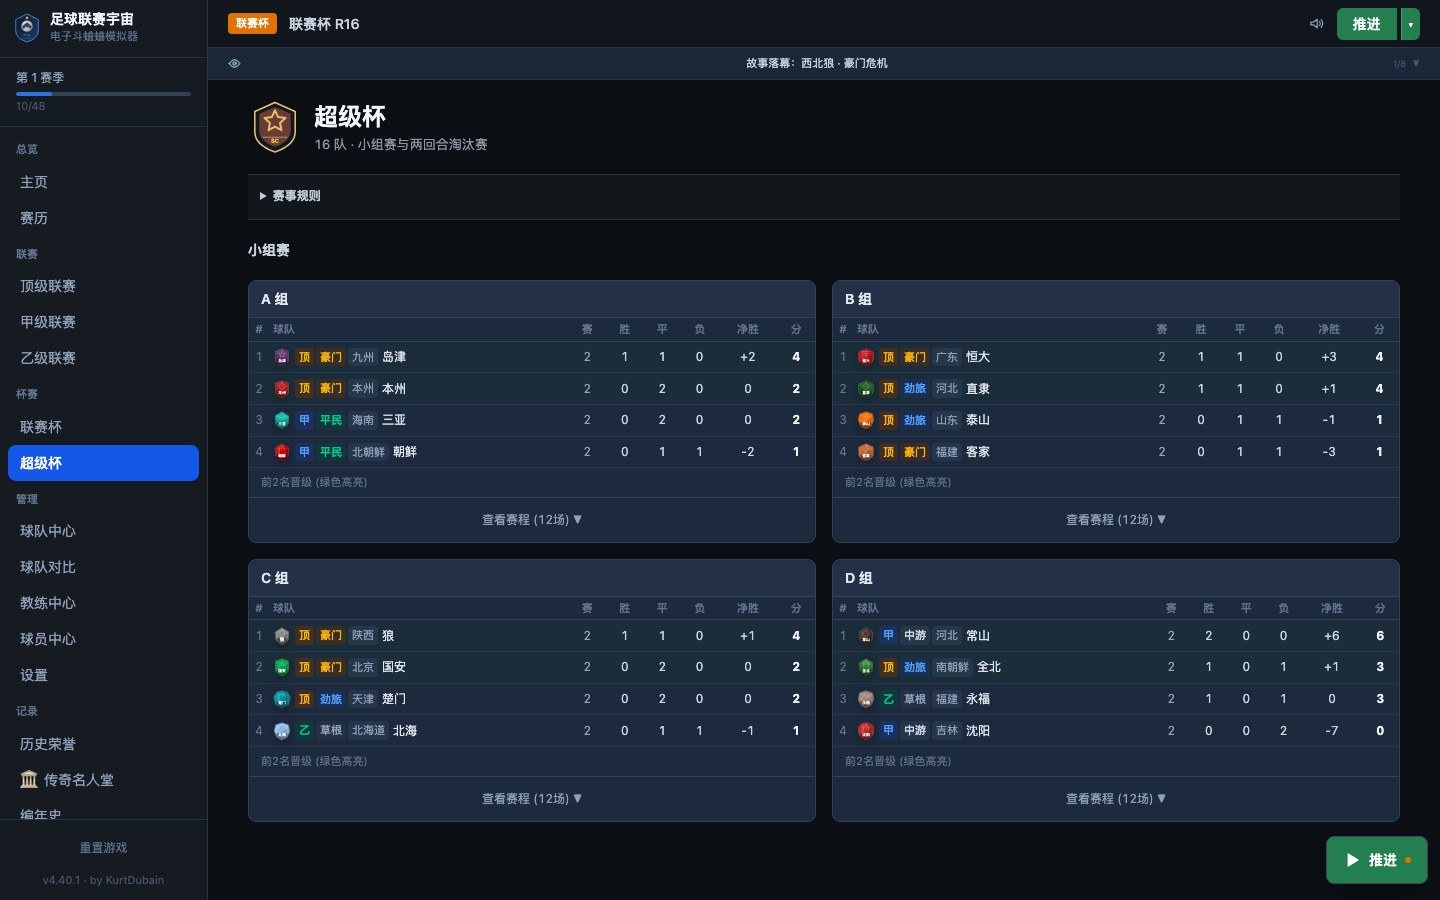
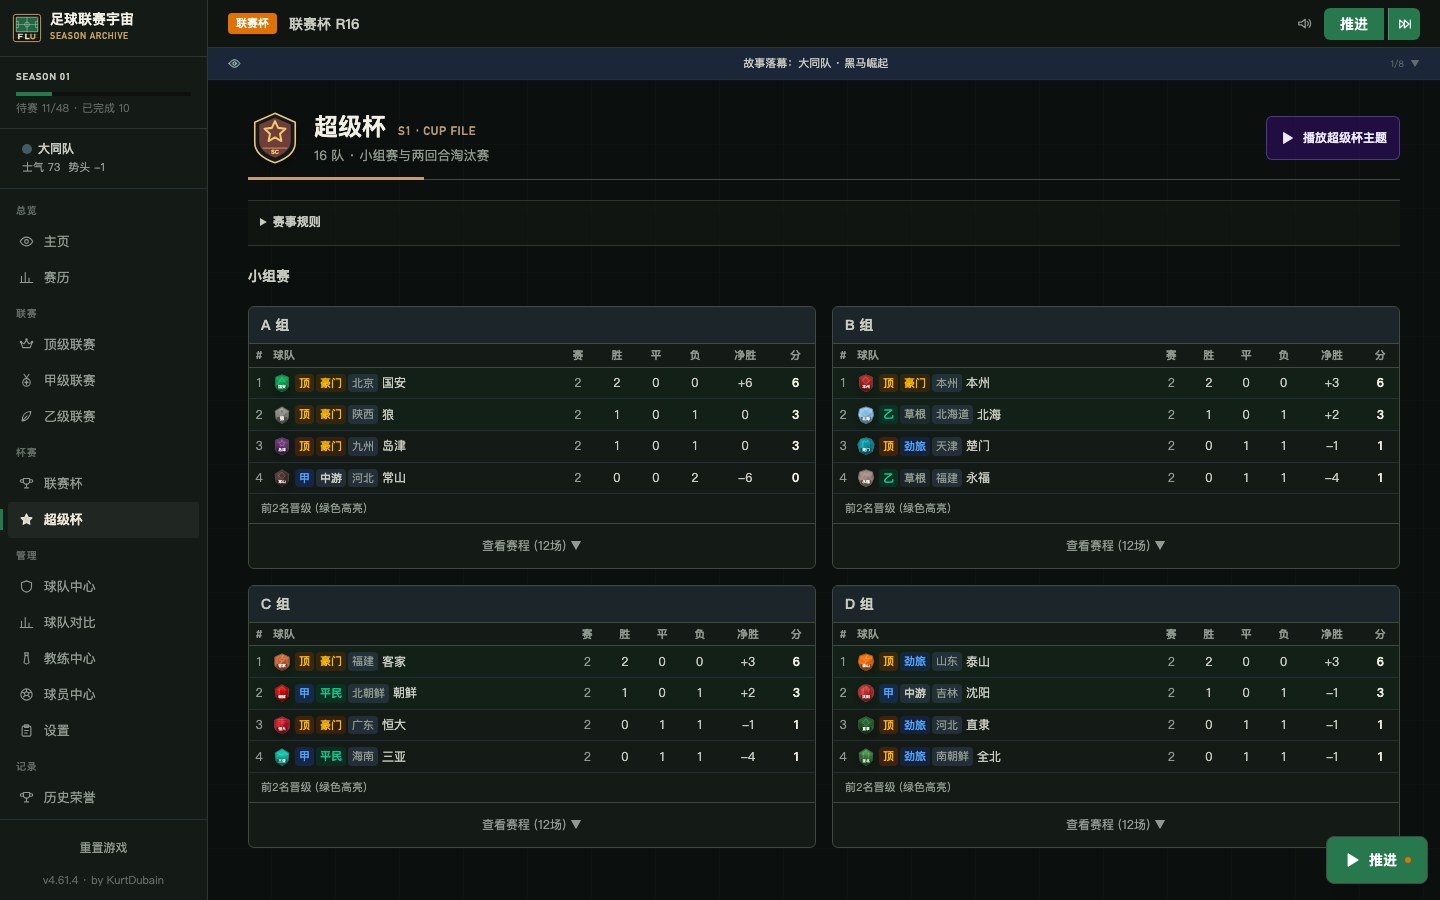
docs: refresh public presentation for v4.61.5

diff --git a/scripts/screenshot.ts b/scripts/screenshot.ts
@@ -7,8 +7,12 @@ const baseUrl = (process.env.SCREENSHOT_URL ?? 'http://127.0.0.1:4173').replace(
 const outputDirectory = path.join(path.dirname(fileURLToPath(import.meta.url)), '..', 'docs', 'screenshots');
 
 type ScreenshotAuditState = {
+  world: { seed: number; gameMode?: string; seasonNumber: number } | null;
+  favoriteTeamId: string | null;
   advanceWindow: () => Promise<boolean>;
   advanceUntil: (type: 'cup' | 'season_end') => Promise<boolean>;
+  skipCurrentSeason: () => Promise<boolean>;
+  closeTransferWindow: (autoResolveRest: boolean) => void;
 };
 
 type ScreenshotAuditWindow = Window & {
@@ -32,6 +36,12 @@ async function openRoute(page: Page, route: string): Promise<void> {
 }
 
 async function capture(page: Page, fileName: string): Promise<void> {
+  await page.mouse.move(0, 0);
+  await page.evaluate(async () => {
+    await document.fonts.ready;
+    await Promise.all(Array.from(document.images, image => image.decode().catch(() => undefined)));
+  });
+  await page.waitForTimeout(350);
   await page.screenshot({
     path: path.join(outputDirectory, fileName),
     type: 'jpeg',
@@ -54,12 +64,30 @@ async function main(): Promise<void> {
   page.on('pageerror', error => errors.push(error.message));
 
   try {
+    // Rasterize the maintained vector at its declared social-card dimensions.
+    await page.setViewportSize({ width: 1200, height: 630 });
+    await page.goto(`${baseUrl}/og-image.svg`, { waitUntil: 'networkidle' });
+    await page.evaluate(() => document.fonts.ready);
+    const unsafeText = await page.locator('svg text').evaluateAll(nodes => nodes.some(node => {
+      const box = node.getBoundingClientRect();
+      return box.left < 40 || box.right > 1160 || box.top < 40 || box.bottom > 590;
+    }));
+    if (unsafeText) throw new Error('Social-card text exceeds the 40px safe area');
+    await page.screenshot({ path: path.resolve(outputDirectory, '../../public/og-image.png') });
+    await page.setViewportSize({ width: 1440, height: 900 });
     await openRoute(page, '/');
     await page.getByRole('heading', { name: '开始观察' }).waitFor();
     await capture(page, '01-welcome.jpg');
 
     await page.getByRole('button', { name: '开始观察' }).click();
     await page.getByTestId('dashboard').waitFor();
+    const opening = await page.evaluate(() => {
+      const state = (window as ScreenshotAuditWindow).__gameStore?.getState();
+      return { seed: state?.world?.seed, mode: state?.world?.gameMode, team: state?.favoriteTeamId };
+    });
+    if (opening.seed !== 20260709 || opening.mode !== 'free' || opening.team !== 'datong') {
+      throw new Error(`Documentation opening changed: ${JSON.stringify(opening)}`);
+    }
     await capture(page, '02-dashboard-initial.jpg');
 
     await page.evaluate(async () => {
@@ -103,14 +131,26 @@ async function main(): Promise<void> {
       ['/history', '08-history.jpg'],
       ['/chronicle', '09-chronicle.jpg'],
     ] as const) {
+      if (route === '/chronicle') {
+        await page.evaluate(async () => {
+          const store = (window as ScreenshotAuditWindow).__gameStore!;
+          for (let season = 2; season <= 3; season += 1) {
+            store.getState().closeTransferWindow(true);
+            if (!await store.getState().skipCurrentSeason()) throw new Error('Could not advance chronicle season');
+          }
+        });
+      }
       await openRoute(page, route);
+      if (route === '/history') {
+        await page.getByTestId('season-history-toggle').first().click();
+      }
       await capture(page, fileName);
     }
 
     if (errors.length > 0) {
       throw new Error(`Screenshot run emitted runtime errors: ${errors.join(' | ')}`);
     }
-    console.log(`Updated 10 documentation screenshots from ${baseUrl}`);
+    console.log(`Updated social card and 10 documentation screenshots from ${baseUrl}`);
   } finally {
     await browser.close();
   }

diff --git a/index.html b/index.html
@@ -7,7 +7,7 @@
     <meta name="theme-color" content="#0f172a" />
 
     <title>足球联赛宇宙 — 电子斗蛐蛐 | Football Universe Simulator</title>
-    <meta name="description" content="纯前端足球宇宙模拟器 · 32支球队 · 3级联赛 · 4项杯赛 · 无限赛季。你不操控比赛，你看整个足球世界自动演化。A free open-source football league universe simulator." />
+    <meta name="description" content="观察者视角足球宇宙模拟器：默认32支球队、三级联赛、六项杯赛，见证跨赛季历史。支持固定种子开局和PWA离线核心体验。" />
     <meta name="keywords" content="football simulator,soccer simulator,足球模拟,足球经理,sports game,browser game,react game,ZenGM" />
     <meta name="author" content="KurtDubain" />
 
@@ -15,18 +15,20 @@
     <meta property="og:type" content="website" />
     <meta property="og:url" content="https://football-universe-ebon.vercel.app/" />
     <meta property="og:title" content="足球联赛宇宙 — 电子斗蛐蛐 Football Universe" />
-    <meta property="og:description" content="纯前端足球宇宙模拟器，32支球队跨3级联赛+4项杯赛，无限赛季演化。No controls. No tactics. Just fate." />
+    <meta property="og:description" content="默认32支球队、三级联赛、六项杯赛。关注球队，观看比赛，见证冠军、升降级与跨赛季历史。" />
     <meta property="og:image" content="https://football-universe-ebon.vercel.app/og-image.png" />
     <meta property="og:image:width" content="1200" />
     <meta property="og:image:height" content="630" />
+    <meta property="og:image:alt" content="足球联赛宇宙：32支球队、三级联赛、六项杯赛与跨赛季历史" />
     <meta property="og:locale" content="zh_CN" />
     <meta property="og:locale:alternate" content="en_US" />
 
     <!-- Twitter -->
     <meta name="twitter:card" content="summary_large_image" />
     <meta name="twitter:title" content="足球联赛宇宙 Football Universe" />
-    <meta name="twitter:description" content="Watch an entire football universe unfold — 3-tier league, 4 cups, 32 teams, infinite seasons. Pure frontend, zero controls, all fate." />
+    <meta name="twitter:description" content="Observe a football universe: 32 default clubs, three league tiers and six cup competitions across seasons. Follow a club and watch its history unfold." />
     <meta name="twitter:image" content="https://football-universe-ebon.vercel.app/og-image.png" />
+    <meta name="twitter:image:alt" content="Football Universe Simulator: 32 clubs, three league tiers, six cup competitions" />
 
     <!-- Canonical -->
     <link rel="canonical" href="https://football-universe-ebon.vercel.app/" />

diff --git a/src/config/changelog.ts b/src/config/changelog.ts
@@ -11,6 +11,16 @@ export interface ReleaseNote {
  */
 export const CHANGELOG: ReleaseNote[] = [
   {
+    version: '4.61.5',
+    date: '2026-09-10',
+    title: '分享预览与项目介绍同步更新',
+    items: [
+      '修复分享图比例与文字截断，完整展示标题、赛事信息和体验网址。',
+      '项目介绍更新为当前版本的真实截图，统一球队、赛事、观察视角及离线体验说明。',
+      '以 v4.61.4 为功能冻结基线，后续进入真人盲测与真机体验验证。',
+    ],
+  },
+  {
     version: '4.61.4',
     date: '2026-09-10',
     title: '赛后事实更准确，封版细节也更稳',

diff --git a/vite.config.ts b/vite.config.ts
@@ -43,7 +43,7 @@ export default defineConfig({
       manifest: {
         name: '足球联赛宇宙 Football Universe',
         short_name: '足球宇宙',
-        description: '纯前端足球宇宙模拟器 — 32 球队, 3 级联赛, 4 项杯赛, 无限赛季',
+        description: '观察者视角足球宇宙模拟器：默认32支球队、三级联赛、六项杯赛与跨赛季历史',
         theme_color: '#0f172a',
         background_color: '#0f172a',
         display: 'standalone',

diff --git a/src/version.ts b/src/version.ts
@@ -1,1 +1,1 @@
-export const APP_VERSION = '4.61.4';
+export const APP_VERSION = '4.61.5';

diff --git a/README.md b/README.md
@@ -3,7 +3,7 @@
 </p>
 
 <h1 align="center">足球联赛宇宙 ⚽</h1>
-<h3 align="center">Football League Universe Simulator</h3>
+<h3 align="center">Football Universe Simulator</h3>
 
 <p align="center">
   <strong>你不操控比赛 — 你观看整个足球宇宙自动演化</strong><br/>
@@ -28,17 +28,18 @@
 
 ## English Summary
 
-A **pure-frontend, observer-style football simulator**. Unlike Football Manager or ZenGM where you control teams, here you just watch — 32 teams across 3 leagues and four cup systems (six named competitions) simulate themselves. Press "Advance" and witness:
+A **pure-frontend, observer-style football simulator** with 32 default clubs, three league tiers and six cup competitions: League Cup, Super Cup, Mainland Cup, Southern Cup, Eastern Cup and World Champions Cup. Cups follow different seasonal schedules. Press "Advance" and witness:
 
 - 🏆 Dynasties rise and crumble across infinite seasons
 - 💥 Underdog cup runs and shocking upsets
 - 👔 Coaches get fired under pressure, then resurrect at new clubs
 - 📰 A deterministic Narrative Director connects causes, turning points, and long-term consequences
 - 📈 Team OVR drifts naturally with mean reversion
-- 🎲 Deterministic seeded RNG — share your "universe" with one number
+- 🎲 Seeded simulation — reproduce results with the same version, seed, settings and simulation-affecting choices
 
 **4 game modes**: Free / Epic Dynasty / Underdog Rise / Sandbox (custom teams).
-**30+ achievements**, story-driven season narratives, head-to-head match history, full multi-season chronicle, PWA-installable for offline play.
+Separately, choose one of **3 guided observer lenses** or a neutral observer view; these are not additional game modes.
+**30+ achievements**, season narratives and a multi-season chronicle with bounded detailed history. PWA installation and core offline play are available after the first online load; secondary pages must be visited online before offline reuse.
 
 → **[Try Live Demo](https://football-universe-ebon.vercel.app/)** ← (opens in browser, no signup)
 
@@ -46,7 +47,7 @@ A **pure-frontend, observer-style football simulator**. Unlike Football Manager 
 
 ## 这是什么？
 
-按下「推进」键 — 联赛轮次翻出比分，杯赛冷门上演，教练被解雇，弱队奇迹升级……长期游玩自然生成"历史"和"故事"。**没有操控，只有命运。**
+按下「推进」键 — 联赛轮次翻出比分，杯赛冷门上演，教练被解雇，弱队奇迹升级……长期游玩自然生成"历史"和"故事"。关注球队、做出观察判断，再看比赛如何揭晓。
 
 市面上的足球经理游戏都要你买卖球员、排阵型、做决策。**这个项目反其道而行**：你做一个上帝视角的观察者，看着王朝崛起、豪门沉沦、黑马逆袭、名帅下课。
 
@@ -54,9 +55,14 @@ A **pure-frontend, observer-style football simulator**. Unlike Football Manager 
 
 ## Screenshots | 截图
 
+以下截图来自 **v4.61.4**、推荐种子 **20260709**、自由模式的挑战者视角，均为真实推进生成。历史荣誉展示 S1，编年史展示三季记录。桌面为 1440×900，手机为 390×844。先运行 `pnpm build:audit`，构建完成后运行 `pnpm preview --host 127.0.0.1 --port 4173`，另一个终端运行 `pnpm screenshots` 即可重新生成截图与分享图；自定义端口可设置 `SCREENSHOT_URL`。
+
 <p align="center">
   <img src="docs/screenshots/01-welcome.jpg" width="48%" alt="Welcome / 欢迎页" />
-  <img src="docs/screenshots/03-dashboard-midseason.jpg" width="48%" alt="Dashboard mid-season / 比赛日 + 成就解锁" />
+  <img src="docs/screenshots/02-dashboard-initial.jpg" width="48%" alt="Initial observation / 初始观察台" />
+</p>
+<p align="center">
+  <img src="docs/screenshots/03-dashboard-midseason.jpg" width="80%" alt="World response / 中期观察与世界回应" />
 </p>
 <p align="center">
   <img src="docs/screenshots/04-league.jpg" width="48%" alt="League standings / 联赛积分榜（含冠军概率）" />
@@ -82,6 +88,8 @@ A **pure-frontend, observer-style football simulator**. Unlike Football Manager 
 三级联赛（16+8+8），双循环赛制，升降级 + 中立场单回合附加赛。冠军/降级实时概率、积分走势折线图、收官之战标签。
 
 ### 🏆 杯赛体系
+共有六项具名杯赛：联赛杯、超级杯、大陆杯、南洲杯、东洲杯和环球冠军杯，按下表的不同周期举办，并非每季全部举行。
+
 | 赛事 | 赛制 | 频率 |
 |------|------|------|
 | **联赛杯** | 32队中立场单回合淘汰 | 每赛季 |
@@ -97,8 +105,10 @@ A **pure-frontend, observer-style football simulator**. Unlike Football Manager 
 - **草根逆袭** — 实力均衡，弱队多冷门
 - **沙盒模式** — 配合自定义球队编辑器
 
+开局观察视角另分为豪门守成、挑战者、草根长征三个引导路线，以及不绑定球队的纯观察。视角决定关注起点，不等同于调整模拟参数的游戏模式。
+
 ### ⚽ 深度模拟引擎
-泊松分布进球采样 + 多因素加权：OVR · 实际首发 · 教练能力 · 自动阵型与策略 · 士气 · 疲劳 · 主场 · 动量 · 德比。弱队通过有代价的低位防守或快速反击应战，不获得隐藏固定补正。世界杯东道主拥有独立赛会氛围，不与普通主场优势混用。**Seeded PRNG** 同种子 100% 可复现。
+泊松分布进球采样 + 多因素加权：OVR · 实际首发 · 教练能力 · 自动阵型与策略 · 士气 · 疲劳 · 主场 · 动量 · 德比。弱队通过有代价的低位防守或快速反击应战，不获得隐藏固定补正。世界杯东道主拥有独立赛会氛围，不与普通主场优势混用。**Seeded PRNG**：相同版本、种子、初始配置和影响模拟的操作序列可复现结果；只分享种子不保证不同版本或干预后的世界一致。
 
 ### 📺 Canvas 2D 比赛直播
 22 名真实比赛阵容球员实时传球跑动 · 四种真实阵型与五种比赛策略 · 焦点球员克制标记 · 高 DPI 固定帧率画布 · 扑救/封堵/射偏定向演出 · 加时与点球阶段 · 可选声音 · 文字解说
@@ -189,7 +199,7 @@ pnpm audit:long-save           # 1/50/100/150 赛季存档恢复与容量
 | Rendering | **Canvas 2D** (match live broadcast) |
 | Deploy | **Vercel** (static site, CDN edge) |
 
-Current release: **v4.61.4**
+Current release: **v4.61.5**
 
 66k+ production TypeScript lines · 220+ production source files · 150+ test files · 45+ browser/simulation audit commands
 
@@ -235,7 +245,7 @@ src/
 - [x] 编年史与赛季叙事
 - [x] 30+ 成就系统
 - [x] 玩法模式（王朝/草根逆袭/沙盒）
-- [ ] 完整英文 i18n（UI 已部分支持，引擎层待译）
+- 完整英文 i18n 尚未完成，仅在明确发行需求下评估，不属于冻结阶段待办。
 - [x] 球员名字系统（稳定 UUID + 姓名 + 号码）
 - [x] 转会系统
 - [x] 球员成长 & 退役

diff --git a/progress.md b/progress.md
@@ -1148,3 +1148,13 @@ Original prompt: 可以，那你来优化一下动画模块吧
 - Production-browser walkthroughs completed both `20260709` routes (`挑战者—大同`, `草根长征—北海道`) at `1280x720` and `390x844`: judgment, followed live match, full time, World Response, season skip, and S1 archive all completed with zero console warnings/errors or horizontal overflow. The calendar rendered `台积`; the two reports rendered `84' 扳平` and `63' 扳平`; the 24% draw rendered `明显意外`. A forced four-second response-chunk delay displayed the accessible fallback immediately on mobile.
 - The mandatory standard web-game client completed three controlled Canvas bursts with changing corner, open-play shot, and goalkeeper-save states. Inspected frames matched `render_game_to_text`, and no console-error artifact was generated.
 - Final v4.61.4 smoke verification passed the 10-season/500-advance production audit, offline revisit and route recovery, 126 mobile route checks, season controls, PWA update, cup bracket, tournament music, match tactics, and player/team workflows. A first 4x-CPU performance sample briefly exceeded the gate during concurrent local-server contention; the clean rerun passed at 29.4ms normal and 93ms throttled P95, with an 86ms maximum steady-state long task. The final entry is 195,780 bytes / 62,142 gzip, the initial graph is 464,670 bytes / 156,325 gzip across 22 chunks, CSS is 187,058 bytes / 28,611 gzip, app images remain 975,295 bytes, and PWA precache remains 86 entries / 2,089,095 bytes.
+
+## 2026-09-10 Feature Freeze And Public Presentation
+
+- Subsequent user authorization requested publication. Release metadata advances to v4.61.5 under the per-push policy; v4.61.4 remains the gameplay freeze baseline and the documented screenshot version.
+
+- Kept v4.61.4 / cc18090 as the feature-freeze candidate. Only repeated human/real-device findings or P0 failures should reopen implementation; blind playtests, physical-device checks, a demonstrated route and submission materials are next.
+- Reused the existing social SVG and rasterized a genuine 1200x630 PNG with checked 40px text margins. The PNG shrank from 1,321,370 to 457,931 bytes. Metadata and the PWA description now describe 32 default clubs, three league tiers and six named cups; README distinguishes four simulation modes from three guided lenses plus neutral observation and qualifies deterministic/offline claims.
+- Refreshed all ten documentation screenshots through scripts/screenshot.ts using the real recommended seed 20260709, free mode and Datong lens. Nine desktop captures are 1440x900 and the mobile capture is 390x844. History opens the real S1 summary; Chronicle follows real automatic progression through S3. Existing historical implementation entries remain intact.
+- The screenshot workflow now waits for image decoding/fonts, moves the pointer away, checks the opening configuration, and exports the social card. The completed production-preview run had no console/page errors; an earlier run started before the PWA build finished and was discarded after worker MIME errors. All resulting images were visually inspected and README local image links were checked.
+- docs:check, scripts:check, build and budgets:check passed on Node 22.22.2 / pnpm 10.34.5. Deployed imagery is now 1,435,657 bytes, application imagery remains 975,295 bytes and PWA precache stays at 86 entries / 2,088,434 bytes. No gameplay, simulation, numerical configuration, save or UI-structure source was modified. No commit or push was requested for this phase.

diff --git a/docs/current-status.md b/docs/current-status.md
@@ -1,8 +1,8 @@
 # Football Universe Current Status
 
 Last reviewed: 2026-09-10
-Current release: v4.61.4
-Status: the pre-submission experience loop and audiovisual delivery polish are closed; later balance batches remain deliberately deferred.
+Current release: v4.61.5 (public-presentation patch; gameplay baseline v4.61.4)
+Status: v4.61.4 is the current feature-freeze candidate. Public-facing documentation and screenshots are aligned with this candidate; human and real-device validation comes next.
 
 This file is the single current roadmap. Older checklists preserve implementation decisions and validation evidence, but unchecked boxes in those files are not active work unless they are promoted here.
 
@@ -17,7 +17,7 @@ This file is the single current roadmap. Older checklists preserve implementatio
 ## Current Health
 
 - 1,055 unit and component tests across 151 test files.
-- 66,480 production lines across 245 production files.
+- 66,490 production lines across 245 production files.
 - Strict TypeScript, ESLint, production/PWA build, bundle, dependency, browser, performance, and long-save gates are available in CI or repository scripts.
 - Production budgets are frozen at 210 KB / 66 KB gzip for the entry, 480 KB / 160 KB gzip for the initial JS graph, 190 KiB / 30 KiB gzip for CSS, 1.05 MB for application imagery, 2.4 MB for all deployed imagery, and 86 entries / 2.15 MB for the PWA precache.
 - Live Canvas verification gates rolling average, P95, and maximum draw cost under normal and 4x CPU profiles, alongside frame cadence, consecutive slow frames, particles, long tasks, pause/resume, and final-score integrity.
@@ -39,13 +39,14 @@ This file is the single current roadmap. Older checklists preserve implementatio
 
 1. Conduct three unassisted first-five-minute playtests and record repeated points of confusion rather than individual visual preferences.
 2. Complete one fifteen-minute observer-route walkthrough on an iPhone Safari and one mid-range Android Chrome device.
-3. Promote only repeated human-test findings into this roadmap; do not reopen archived feature lists by default.
+3. Accept only reproducible, repeated human/real-device findings or P0 failures during the freeze. Do not reopen archived feature lists.
+4. Prepare a demonstrated fifteen-minute route and submission materials after blind playtests and real-device checks.
 
-## Candidate Follow-Ups
+## Deferred, Not Active During Freeze
 
 - Add authoritative in-match injury events only if they can share the existing participation, substitution, injury, commentary, and post-match consequence chain.
 - Complete English engine copy only when an actual distribution target requires it.
-- Refresh submission screenshots or an original-name preset only for a concrete event with known delivery and rights requirements.
+- Consider an original-name preset only for a concrete event with known delivery and rights requirements. Current documentation screenshots already reflect v4.61.4.
 
 ## Explicitly Not Planned
 
